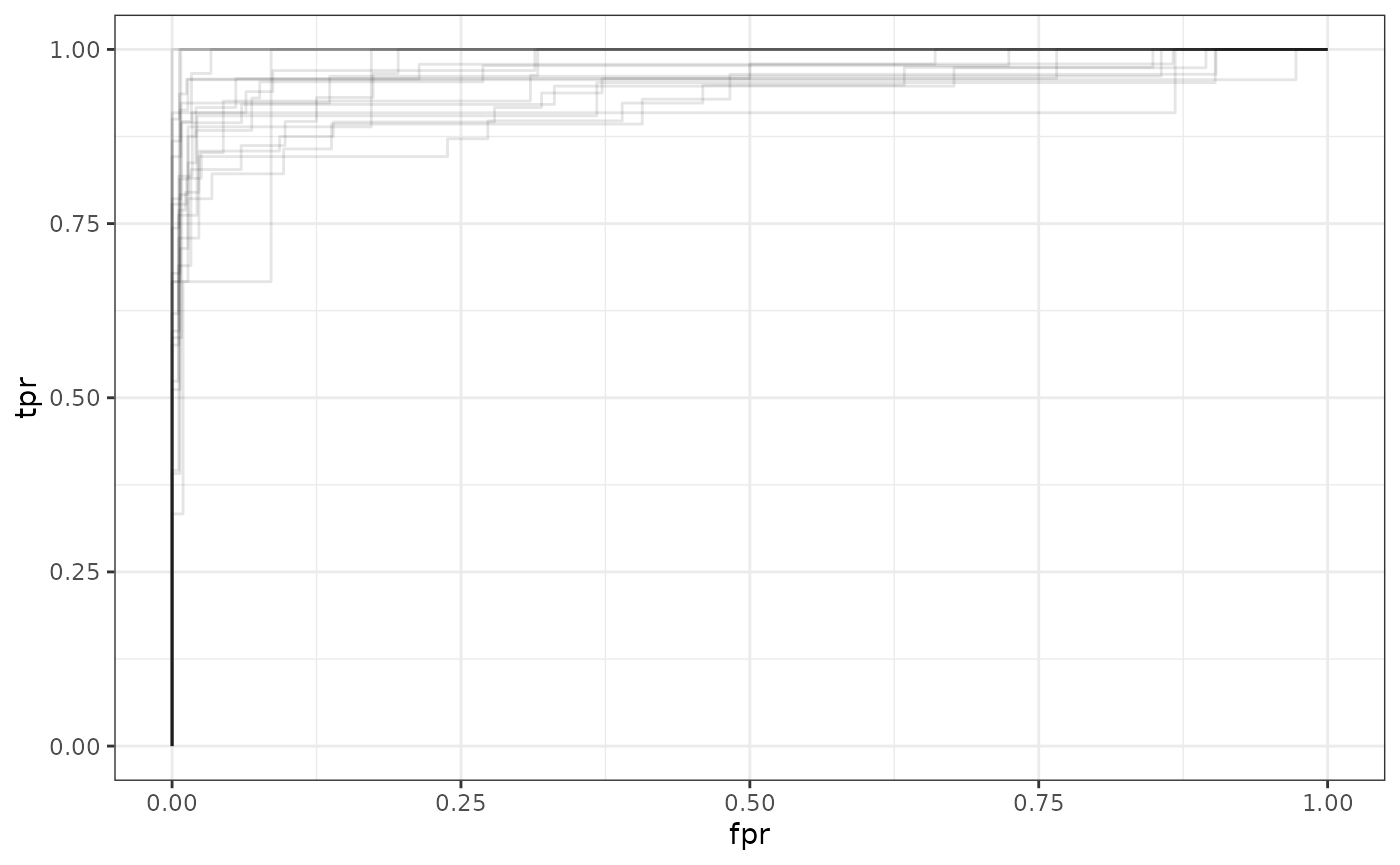
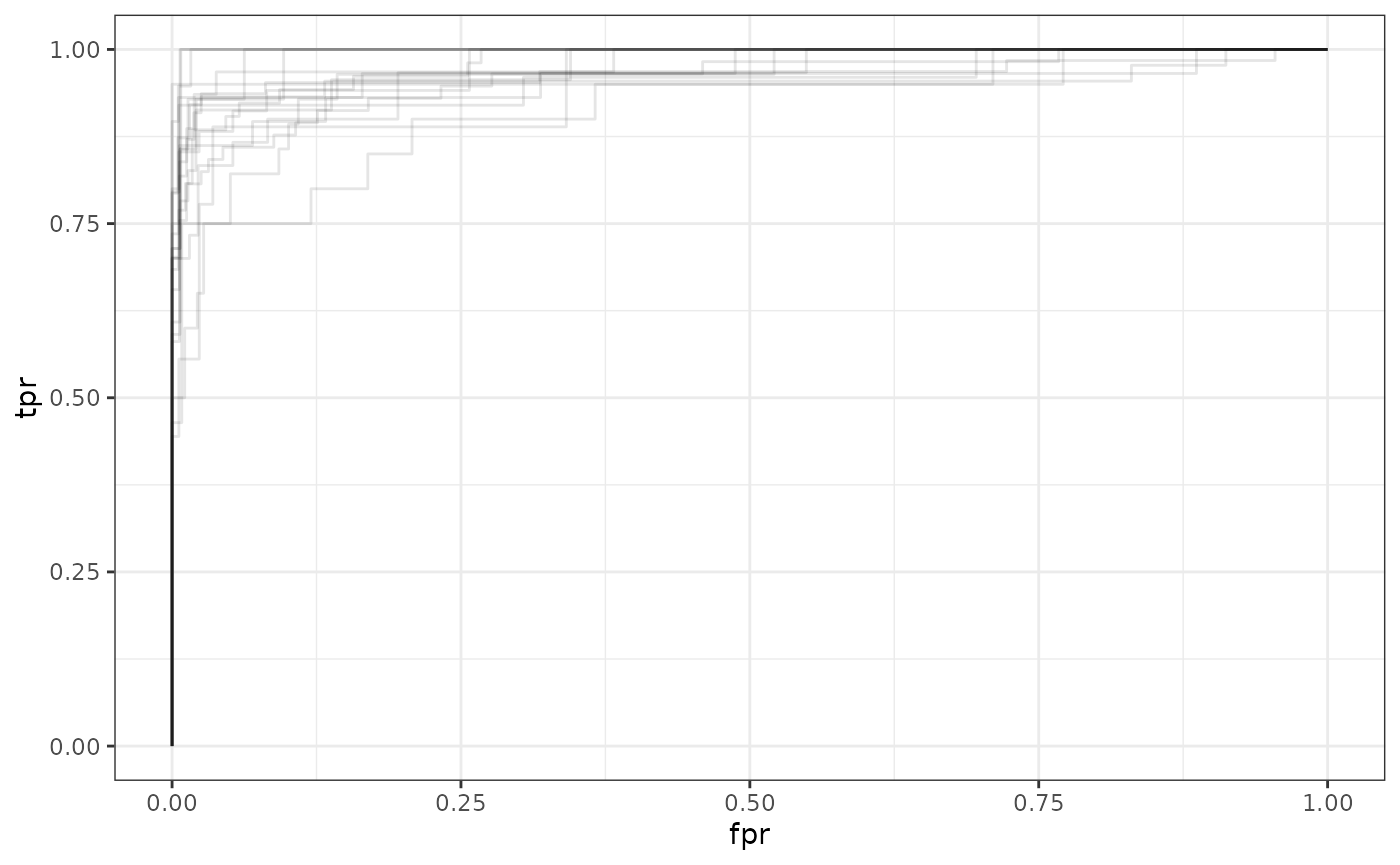
Deploying to gh-pages from @ valeriehan6/scoreLR@66ea5f0cf5a3be347f8c27d36e5337ea216851a1 🚀

Changed region(s): [[0.1229, 0.0312, 0.9214, 0.437], [0.1229, 0.4994, 0.1536, 0.5306]]

diff --git a/articles/scoreLR.html b/articles/scoreLR.html
@@ -360,45 +360,45 @@ all four methods. We display this below.</p>
 <span><span class="fu"><a href="https://rdrr.io/r/utils/str.html" class="external-link">str</a></span><span class="op">(</span><span class="va">results</span><span class="op">)</span></span>
 <span><span class="co">#&gt; List of 4</span></span>
 <span><span class="co">#&gt;  $ IgnoreDependence    :List of 5</span></span>
-<span><span class="co">#&gt;   ..$ KM_SLR    :'data.frame':   33 obs. of  1 variable:</span></span>
-<span><span class="co">#&gt;   .. ..$ SLR: num [1:33] Inf Inf Inf Inf Inf ...</span></span>
-<span><span class="co">#&gt;   ..$ KNM_SLR   :'data.frame':   119 obs. of  1 variable:</span></span>
-<span><span class="co">#&gt;   .. ..$ SLR: num [1:119] 0.00277 0.00036 0.00113 0.00395 0.00108 ...</span></span>
-<span><span class="co">#&gt;   ..$ threshold : num 0.0198</span></span>
+<span><span class="co">#&gt;   ..$ KM_SLR    :'data.frame':   24 obs. of  1 variable:</span></span>
+<span><span class="co">#&gt;   .. ..$ SLR: num [1:24] 3.09e+59 6.56e+70 2.18e+151 Inf Inf ...</span></span>
+<span><span class="co">#&gt;   ..$ KNM_SLR   :'data.frame':   172 obs. of  1 variable:</span></span>
+<span><span class="co">#&gt;   .. ..$ SLR: num [1:172] 1.75e-09 5.45e-04 4.48e-04 1.82e-03 4.23e-04 ...</span></span>
+<span><span class="co">#&gt;   ..$ threshold : num 0.0205</span></span>
 <span><span class="co">#&gt;   ..$ new_SLR   : logi NA</span></span>
-<span><span class="co">#&gt;   ..$ ROC_values:'data.frame':   123 obs. of  2 variables:</span></span>
-<span><span class="co">#&gt;   .. ..$ tpr: num [1:123] 0 0.143 0.286 0.429 0.571 ...</span></span>
-<span><span class="co">#&gt;   .. ..$ fpr: num [1:123] 0 0 0 0 0 ...</span></span>
+<span><span class="co">#&gt;   ..$ ROC_values:'data.frame':   171 obs. of  2 variables:</span></span>
+<span><span class="co">#&gt;   .. ..$ tpr: num [1:171] 0 0.0667 0.1333 0.2 0.2667 ...</span></span>
+<span><span class="co">#&gt;   .. ..$ fpr: num [1:171] 0 0 0 0 0 0 0 0 0 0 ...</span></span>
 <span><span class="co">#&gt;  $ StrictIndependentSet:List of 5</span></span>
-<span><span class="co">#&gt;   ..$ KM_SLR    :'data.frame':   33 obs. of  1 variable:</span></span>
-<span><span class="co">#&gt;   .. ..$ SLR: num [1:33] Inf Inf Inf Inf Inf ...</span></span>
-<span><span class="co">#&gt;   ..$ KNM_SLR   :'data.frame':   119 obs. of  1 variable:</span></span>
-<span><span class="co">#&gt;   .. ..$ SLR: num [1:119] 0.00113 0.00201 0.00745 0.00301 0.01705 ...</span></span>
-<span><span class="co">#&gt;   ..$ threshold : num 0.00766</span></span>
+<span><span class="co">#&gt;   ..$ KM_SLR    :'data.frame':   24 obs. of  1 variable:</span></span>
+<span><span class="co">#&gt;   .. ..$ SLR: num [1:24] Inf Inf Inf Inf Inf ...</span></span>
+<span><span class="co">#&gt;   ..$ KNM_SLR   :'data.frame':   172 obs. of  1 variable:</span></span>
+<span><span class="co">#&gt;   .. ..$ SLR: num [1:172] 3.67e-06 2.86e-03 3.64e-04 1.51e-03 2.17e-04 ...</span></span>
+<span><span class="co">#&gt;   ..$ threshold : num 0.0129</span></span>
 <span><span class="co">#&gt;   ..$ new_SLR   : logi NA</span></span>
-<span><span class="co">#&gt;   ..$ ROC_values:'data.frame':   119 obs. of  2 variables:</span></span>
-<span><span class="co">#&gt;   .. ..$ tpr: num [1:119] 0 0.333 0.667 0.667 0.667 ...</span></span>
-<span><span class="co">#&gt;   .. ..$ fpr: num [1:119] 0 0 0 0.00855 0.01709 ...</span></span>
+<span><span class="co">#&gt;   ..$ ROC_values:'data.frame':   157 obs. of  2 variables:</span></span>
+<span><span class="co">#&gt;   .. ..$ tpr: num [1:157] 0 0 0 0 0 0 0 0 0 0 ...</span></span>
+<span><span class="co">#&gt;   .. ..$ fpr: num [1:157] 0 0.00581 0.01163 0.01744 0.02326 ...</span></span>
 <span><span class="co">#&gt;  $ AverageFeatures     :List of 5</span></span>
-<span><span class="co">#&gt;   ..$ KM_SLR    :'data.frame':   6 obs. of  1 variable:</span></span>
-<span><span class="co">#&gt;   .. ..$ SLR: num [1:6] Inf Inf Inf Inf Inf ...</span></span>
+<span><span class="co">#&gt;   ..$ KM_SLR    :'data.frame':   4 obs. of  1 variable:</span></span>
+<span><span class="co">#&gt;   .. ..$ SLR: num [1:4] Inf Inf 8.53e+148 1.22e+14</span></span>
 <span><span class="co">#&gt;   ..$ KNM_SLR   :'data.frame':   14 obs. of  1 variable:</span></span>
-<span><span class="co">#&gt;   .. ..$ SLR: num [1:14] 1.39e-04 9.77e-08 1.51e-09 4.07e-05 8.23e-05 ...</span></span>
-<span><span class="co">#&gt;   ..$ threshold : num 0.261</span></span>
+<span><span class="co">#&gt;   .. ..$ SLR: num [1:14] 0.003618 1.866497 0.063627 0.00195 0.000527 ...</span></span>
+<span><span class="co">#&gt;   ..$ threshold : num 0.149</span></span>
 <span><span class="co">#&gt;   ..$ new_SLR   : logi NA</span></span>
-<span><span class="co">#&gt;   ..$ ROC_values:'data.frame':   15 obs. of  2 variables:</span></span>
-<span><span class="co">#&gt;   .. ..$ tpr: num [1:15] 0 0 1 1 1 1 1 1 1 1 ...</span></span>
-<span><span class="co">#&gt;   .. ..$ fpr: num [1:15] 0 0.0769 0.0769 0.1538 0.2308 ...</span></span>
+<span><span class="co">#&gt;   ..$ ROC_values:'data.frame':   17 obs. of  2 variables:</span></span>
+<span><span class="co">#&gt;   .. ..$ tpr: num [1:17] 0 0.5 1 1 1 1 1 1 1 1 ...</span></span>
+<span><span class="co">#&gt;   .. ..$ fpr: num [1:17] 0 0 0 0.0714 0.1429 ...</span></span>
 <span><span class="co">#&gt;  $ MultipleKDE         :List of 5</span></span>
-<span><span class="co">#&gt;   ..$ KM_SLR    :'data.frame':   33 obs. of  1 variable:</span></span>
-<span><span class="co">#&gt;   .. ..$ SLR: num [1:33] Inf Inf 3.49e+266 3.99e+149 3.48e+250 ...</span></span>
-<span><span class="co">#&gt;   ..$ KNM_SLR   :'data.frame':   119 obs. of  1 variable:</span></span>
-<span><span class="co">#&gt;   .. ..$ SLR: num [1:119] 0.007798 0.000421 0.005364 0.00682 0.00249 ...</span></span>
-<span><span class="co">#&gt;   ..$ threshold : num 0.0249</span></span>
+<span><span class="co">#&gt;   ..$ KM_SLR    :'data.frame':   24 obs. of  1 variable:</span></span>
+<span><span class="co">#&gt;   .. ..$ SLR: num [1:24] 1.69e+27 4.28e+06 1.49e+08 Inf Inf ...</span></span>
+<span><span class="co">#&gt;   ..$ KNM_SLR   :'data.frame':   172 obs. of  1 variable:</span></span>
+<span><span class="co">#&gt;   .. ..$ SLR: num [1:172] 2.22e-07 2.51e-03 7.60e-04 4.13e-03 7.11e-04 ...</span></span>
+<span><span class="co">#&gt;   ..$ threshold : num 0.0282</span></span>
 <span><span class="co">#&gt;   ..$ new_SLR   : logi NA</span></span>
-<span><span class="co">#&gt;   ..$ ROC_values:'data.frame':   131 obs. of  2 variables:</span></span>
-<span><span class="co">#&gt;   .. ..$ tpr: num [1:131] 0 0.0714 0.1429 0.2143 0.2857 ...</span></span>
-<span><span class="co">#&gt;   .. ..$ fpr: num [1:131] 0 0 0 0 0 ...</span></span></code></pre></div>
+<span><span class="co">#&gt;   ..$ ROC_values:'data.frame':   178 obs. of  2 variables:</span></span>
+<span><span class="co">#&gt;   .. ..$ tpr: num [1:178] 0 0.0455 0.0909 0.1364 0.1818 ...</span></span>
+<span><span class="co">#&gt;   .. ..$ fpr: num [1:178] 0 0 0 0 0 0 0 0 0 0 ...</span></span></code></pre></div>
 <p>The output gives you a list. Each element corresponds to the output
 of the corresponding method function.</p>
 <p>You can also choose to run the method itself after splitting the data
@@ -460,9 +460,9 @@ data is provided.</p>
 <span><span class="va">res</span> <span class="op">&lt;-</span> <span class="fu"><a href="../reference/strict_indep_set.html">strict_indep_set</a></span><span class="op">(</span><span class="va">KM_train</span>, <span class="va">KM_test</span>, <span class="va">KNM_train</span>, <span class="va">KNM_test</span>, <span class="va">unknown</span><span class="op">)</span></span>
 <span></span>
 <span><span class="va">res</span><span class="op">$</span><span class="va">new_SLR</span></span>
-<span><span class="co">#&gt;             SLR</span></span>
-<span><span class="co">#&gt; 1  3.127842e-01</span></span>
-<span><span class="co">#&gt; 2 4.594980e+269</span></span></code></pre></div>
+<span><span class="co">#&gt;           SLR</span></span>
+<span><span class="co">#&gt; 1 0.001861816</span></span>
+<span><span class="co">#&gt; 2         Inf</span></span></code></pre></div>
 </div>
 </div>
 <div class="section level2">

diff --git a/reference/slr_results.html b/reference/slr_results.html
@@ -111,12 +111,10 @@
 <span class="r-in"><span>                      input_overlap <span class="op">=</span> <span class="fu"><a href="https://rdrr.io/r/base/c.html" class="external-link">c</a></span><span class="op">(</span><span class="fl">.01</span>, <span class="fl">0.26</span><span class="op">)</span><span class="op">)</span></span></span>
 <span class="r-in"><span></span></span>
 <span class="r-in"><span><span class="va">res_all</span> <span class="op">&lt;-</span> <span class="fu">slr_results</span><span class="op">(</span><span class="va">shoedata_split</span>, <span class="va">unknown</span><span class="op">)</span> <span class="co"># all methods</span></span></span>
-<span class="r-out co"><span class="r-pr">#&gt;</span> [1] "ROC_values not calculated10, 14"</span>
 <span class="r-in"><span><span class="va">res_def</span> <span class="op">&lt;-</span> <span class="fu">slr_results</span><span class="op">(</span><span class="va">shoedata_split</span>, <span class="va">unknown</span>,</span></span>
 <span class="r-in"><span>            <span class="fu"><a href="https://rdrr.io/r/base/c.html" class="external-link">c</a></span><span class="op">(</span><span class="st">"IgnoreDependence"</span>, <span class="st">"StrictIndependentSet"</span><span class="op">)</span><span class="op">)</span> <span class="co"># default methods</span></span></span>
 <span class="r-in"><span><span class="va">res_prop</span> <span class="op">&lt;-</span> <span class="fu">slr_results</span><span class="op">(</span><span class="va">shoedata_split</span>, <span class="va">unknown</span>, </span></span>
 <span class="r-in"><span>            <span class="fu"><a href="https://rdrr.io/r/base/c.html" class="external-link">c</a></span><span class="op">(</span><span class="st">"AverageFeatures"</span>, <span class="st">"MultipleKDE"</span><span class="op">)</span><span class="op">)</span> <span class="co"># proposed methods</span></span></span>
-<span class="r-out co"><span class="r-pr">#&gt;</span> [1] "ROC_values not calculated10, 14"</span>
 </code></pre></div>
     </div>
   </main><aside class="col-md-3"><nav id="toc"><h2>On this page</h2>
